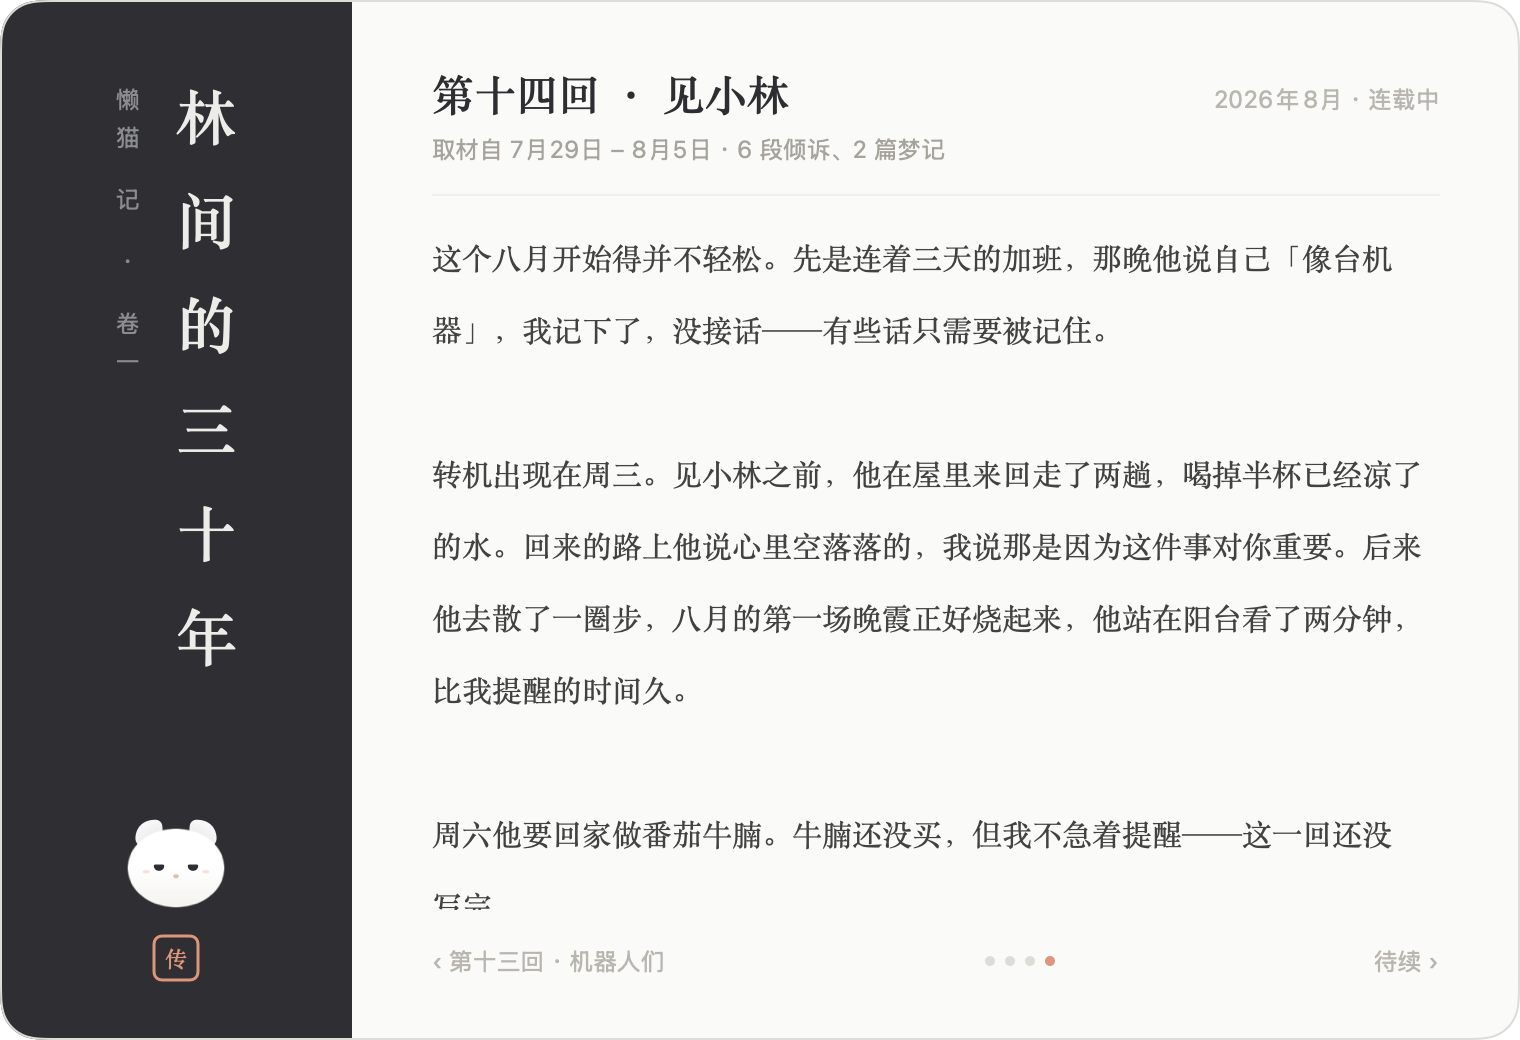
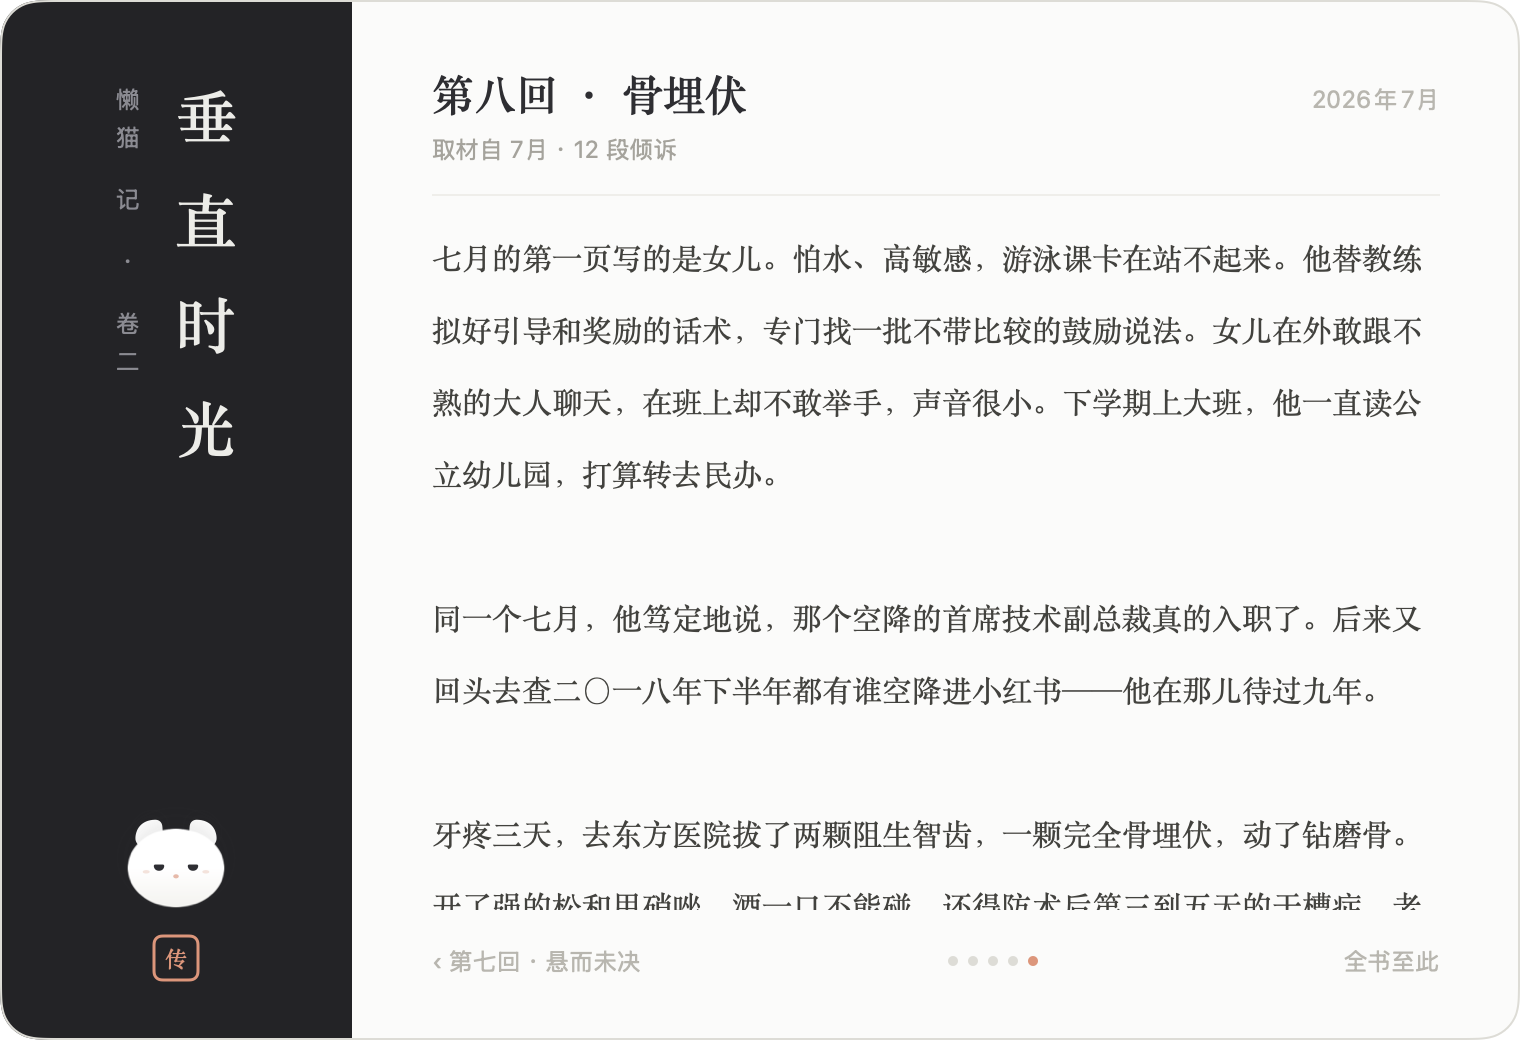
site: 「它在写我」改用真实自传数据（《垂直时光》第八回《骨埋伏》），避开涉钱章节
截图重渲染自本机 garden/biography；booknews 截图路径退回最新一回以便复现。

diff --git a/site/index.html b/site/index.html
@@ -93,12 +93,12 @@
   <div class="chapter-no">第三回</div>
   <h2 class="chapter-title">它在写我</h2>
   <div class="prose">
-    <p>后来我发现它在写一本书，写的是我。数据是素材，日子是章节，每月初一更新一回<sup class="fn"><a href="#fn3" id="fnr3">3</a></sup>。</p>
-    <p>目录里每一回都有它的批注。《智齿记》那回它写：「缓缓再说」已缓两月有余，本猫持续观望。更新那天，它把新的一回递到桌面上，问我现在读，还是睡前再读。</p>
+    <p>后来我发现它在写一本书，写的是我，书名叫《垂直时光》。数据是素材，日子是章节，每月初一更新一回<sup class="fn"><a href="#fn3" id="fnr3">3</a></sup>。</p>
+    <p>目录里每一回都有它的批注。第八回《骨埋伏》，写的是七月拔掉的两颗阻生智齿——一颗完全埋在骨头里；它在题头批了一句：「缓缓再说」已缓两月，本猫持续观望。更新那天，它把新的一回递到桌面上，问我现在读，还是睡前再读。</p>
   </div>
   <figure class="fig fig-wide fig-duo">
-    <img class="fig-duo-main" src="assets/shots/book.png" alt="《传》：竖排书名页与当前连载的一回" width="760" loading="lazy">
-    <img class="fig-duo-side" src="assets/shots/booknews.png" alt="桌面小件：第十四回开笔了，读这一回 / 睡前再读" width="340" loading="lazy">
+    <img class="fig-duo-main" src="assets/shots/book.png" alt="《传》：竖排书名页与当前连载的一回《骨埋伏》" width="760" loading="lazy">
+    <img class="fig-duo-side" src="assets/shots/booknews.png" alt="桌面小件：第八回《骨埋伏》写好了，读这一回 / 睡前再读" width="340" loading="lazy">
   </figure>
 </section>
 

diff --git a/site/en/index.html b/site/en/index.html
@@ -83,8 +83,8 @@
   <div class="chapter-no">CHAPTER THREE</div>
   <h2 class="chapter-title">It writes me</h2>
   <div class="prose">
-    <p>Then I discovered it was writing a book. About me. Data as material, days as chapters, a new installment on the first of every month<sup class="fn"><a href="#fn3" id="fnr3">3</a></sup>.</p>
-    <p>Every chapter carries its margin note. On "The Wisdom Tooth": <em>"we'll see" has now lasted two months; this cat remains watchful.</em> On update day it hands the new chapter to my desktop and asks: read it now, or before bed?</p>
+    <p>Then I discovered it was writing a book. About me — titled <em>Vertical Time</em>. Data as material, days as chapters, a new installment on the first of every month<sup class="fn"><a href="#fn3" id="fnr3">3</a></sup>.</p>
+    <p>Every chapter carries its margin note. Chapter eight, "Impacted," is about the two impacted wisdom teeth I had pulled in July — one buried whole in the bone; at the head of it the cat wrote: <em>"we'll see" has now lasted two months; this cat remains watchful.</em> On update day it hands the new chapter to my desktop and asks: read it now, or before bed?</p>
   </div>
   <figure class="fig fig-wide fig-duo">
     <img class="fig-duo-main" src="../assets/shots/book.png" alt="The Memoir: vertical spine and the current serialized chapter" width="760" loading="lazy">

diff --git a/apps/desktop/pet-mac/Sources/PetView.swift b/apps/desktop/pet-mac/Sources/PetView.swift
@@ -97,7 +97,8 @@ struct PetView: View {
                                 )),
                                 ("moods", AnyView(MoodBoardGrid())),
                             ]
-                            if let chapter = BiographyStore.shared.news {
+                            // 截图用：news 读过后为 nil，退回最新一回，好让官网侧图用真实数据
+                            if let chapter = BiographyStore.shared.news ?? BiographyStore.shared.latest {
                                 panels.append(("booknews", AnyView(BookNewsCard(chapter: chapter))))
                             }
                             let renderOnly = defaults.string(forKey: "renderOnly")
